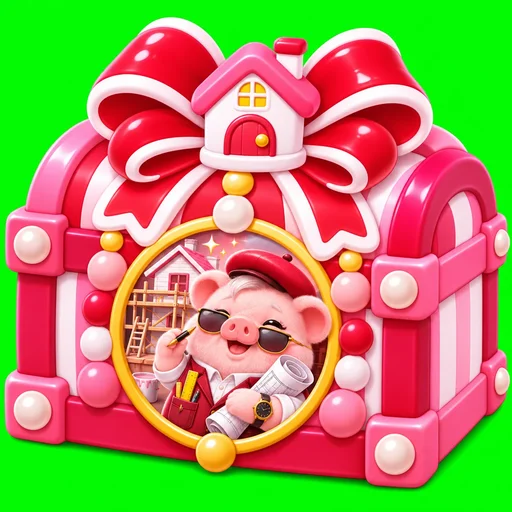
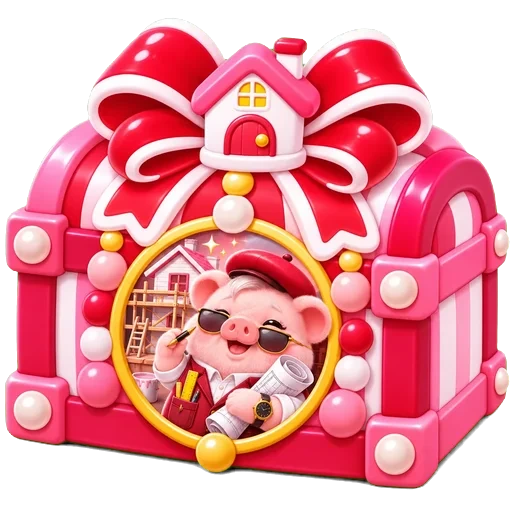
กล่องสุ่มใหม่ 2 แบบ: ลบพื้นหลังเขียว/ส้ม + ปิดแจ้งเตือนเรือของซีซันก่อน

Changed region(s): [[0.0, 0.0, 1.0, 1.0]]

diff --git a/alerts-ui.js b/alerts-ui.js
@@ -97,7 +97,7 @@ export function startAlerts({watch,act,now,toast,game,go,x17,screen}){
       c.querySelectorAll('[data-u]').forEach(b=>b.onclick=()=>{const u=b.dataset.u,i=sel.indexOf(u);if(i>=0)sel.splice(i,1);else{if(sel.length>=need)sel.shift();sel.push(u);}sync();});
       go.onclick=async e=>{const b=e.currentTarget;if(sel.length!==need)return;b.disabled=true;busy.add(id);try{await act('boat',{type:'mmFire',boat:d.boat,uids:sel.slice()});drop(id);toast?.('🔨 นางในวรรณคดีตัดสินแล้ว!');}catch(err){b.disabled=false;toast?.(err.message||'ลองใหม่อีกครั้ง');}finally{busy.delete(id);}};}}
   /* ---- fix17 ⛈ ฝนกุศล: เตือน 15 วินาทีทุกหน้า (หน้าแข่งเรือมีเตือนของตัวเองแล้ว) · ไม่บอกให้ไปหน้าไหน ---- */
-  let rainT=0;function rainCard(v){const r=v?.rain;clearInterval(rainT);if(!r||!r.start){drop('rain');return;}
+  let rainT=0;function rainCard(v){drop('rain');return;/* S4: ปิดการ์ดพายุเรือ */const r=v?.rain;clearInterval(rainT);if(!r||!r.start){drop('rain');return;}
     const left=()=>r.start-now();if(left()<=0||screen?.()==='boat'){drop('rain');return;}
     if(!cards.has('rain')){card('rain','<div class="ax-row"><div style="font-size:2.6rem;text-align:center;filter:drop-shadow(0 0 10px #9FD8FF)">⛈</div><div><h3 style="color:#2F5FA8">⛈ ฝนกุศลกำลังจะตก</h3><p>เตรียมรับกุศล!</p><div class="cd">⏱ <span>'+Math.ceil(left()/1000)+'</span> วินาที</div></div></div>',{glow:'#9FD8FF'});}
     rainT=setInterval(()=>{const l=left();const c=cards.get('rain');if(l<=0||screen?.()==='boat'){clearInterval(rainT);drop('rain');return;}if(c)c.querySelector('.cd span').textContent=Math.ceil(l/1000);},250);}
@@ -113,7 +113,7 @@ export function startAlerts({watch,act,now,toast,game,go,x17,screen}){
     pill.innerHTML='<span class="i">🏊</span><b>'+Math.min(p,need).toLocaleString('en-US')+'/'+need.toLocaleString('en-US')+'</b><span class="t">'+(done?'✅':'⏳ '+fmt(sq.until-now()))+'</span><span class="more">'+ICON[sq.kind]+' '+TXT[sq.kind]+' ('+UNIT[sq.kind]+') · ทำครบแล้วกลับเรือให้เอง</span>';
     pill.setAttribute('aria-label','ภารกิจว่ายกลับเรือ '+Math.min(p,need)+' จาก '+need+' '+UNIT[sq.kind]);}
   function dropSwim(){document.getElementById('axSwim')?.remove();}
-  const swimT=setInterval(swimCard,1000);
+  /* S4: ปิดภารกิจว่ายกลับเรือ */const swimT=0;
   const stopMm=watch('mermaid',v=>{mm=v;notice(v);checkCard();dismissCards();rainCard(v);});
   /* fix18: โดนเตะจากเรือแล้วอยู่หน้าอื่น → ป้ายเล็กนับถอยหลัง แตะกลับไปตัดสินใจ · หมดเวลาตอบให้อัตโนมัติ (กติกาเดิม)
      ไม่อยู่ในเกมจนเซิร์ฟเวอร์ตัดสินให้ออก → การ์ดแจ้งครั้งเดียวตอนกลับมา (ข้อความของแอดมินตามตัวอักษร) */
@@ -130,6 +130,6 @@ export function startAlerts({watch,act,now,toast,game,go,x17,screen}){
     const c=card('away','<div class="ax-row"><div style="font-size:2.4rem;text-align:center">🚣💦</div><div><h3 style="color:#B02A44">ออกจากเรือแล้ว</h3><p>'+AWAY_MSG+'</p></div></div><button class="ax-btn r" type="button">รับทราบ</button>',{glow:'#FF9DB8'});
     c.querySelector('button').onclick=()=>{ls.set('axAway:'+w.at,'1');drop('away');};}
   const offT=setInterval(offTick,500);
-  const stopOff=watch('boatOffer',v=>{boff=v;offTick();awayCard(v);});
+  /* S4: ปิดแจ้งเตือนเรือทุกหน้า (ออกจากเรือ/โดนเตะ/ข้อเสนออยู่ต่อ) — เป็นของซีซันก่อน */const stopOff=()=>{};
   return ()=>{clearInterval(offT);dropOff();stopOff?.();clearInterval(pzRe);clearInterval(swimT);dropSwim();clearInterval(rainT);stopPoison?.();stopMm?.();clearTimeout(tCheck);for(const id of [...cards.keys()])drop(id);wrap.remove();};
 }

diff --git a/app.js b/app.js
@@ -7,7 +7,7 @@ import {getFunctions,httpsCallable,connectFunctionsEmulator} from 'https://www.g
 import { deliverAdminGift } from './admin-mail.js?v=ss3-recovery6&h=a11eb208';
 import { refillAdminInventory, consolidatePending } from './admin-inventory.js?v=ss3-recovery6&h=6c90d59e';
 import {startRumors} from './rumor-ui.js?v=ss3-fix17&h=9147b483';
-import {startAlerts} from './alerts-ui.js?v=ss3-fix18&h=6cb9340c';
+import {startAlerts} from './alerts-ui.js?v=ss4-nakorn1&h=8bcd6002';
 import {startTreeWar} from './tw-alerts.js?v=ss3-fix19&h=e26661d1';
 import {startDemon} from './demon-ui.js?v=ss3-fix23b&h=cbbc5f91';
 import './mahakusal-ui.js?v=ss3-fix18&h=df1982ce';import './atm-ui.js?v=ss3-fix24&h=9dfd2d68';/* fix19 🏧 *//* fix17c: เปิดกล่องมหากุศลจากกระเป๋าได้ทุกหน้า */

diff --git a/index.html b/index.html
@@ -14,6 +14,6 @@
 <div id="saveDot" class="savedot" hidden></div>
 <div id="modal" class="modal"><div class="card" id="mcard"></div></div>
 <div id="toast" class="toast"></div>
-<script type="module" src="app.js?v=ss4-nakorn1&h=ebac577d"></script>
+<script type="module" src="app.js?v=ss4-nakorn1&h=d849909d"></script>
 </body>
 </html>
